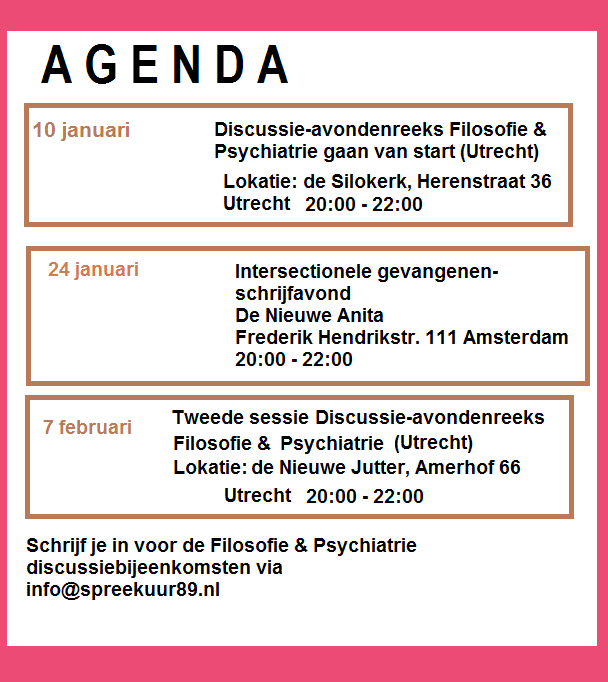
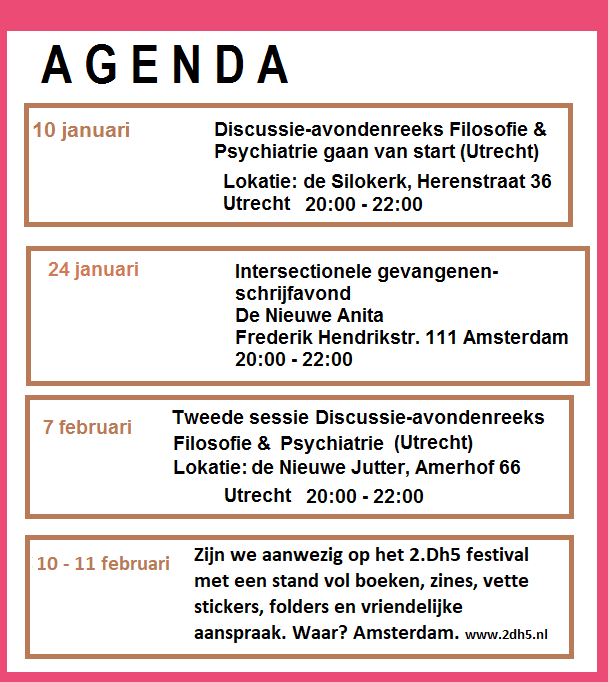
25 dec

Changed region(s): [[0.0, 0.7698, 1.0, 0.9853]]

diff --git a/blog.html b/blog.html
@@ -64,12 +64,44 @@
 <section class= "middelen1">
 
 <h2>Blog</h2>
-<p>Hier komen elke tweede en vierde maandag van de maand nieuwe artkelen op! Check bijvoorbeeld de <a href=#11dec>laatste bijdrage</a>, of de <a href=#13nov>eennalaatste bijdrage</a>, of onze <a href=#12okt>eerste Tegenlezing</a>, onze <a href=#9okt>'Oproep: mail naar de Monitor'</a> of het <a href=#25sept2>eerste artikel</a>. Ook is er de naar De Monitor verzonden <a href=#23okt>mail</a> van een anonieme schrijver/ schrijfster. Het volgende stuk verschijnt op 25 december: een mals, kritisch stuk voor bij het burgerlijke kerstontbijt. Af en toe verschijnt er ook spontaan iets, bijvoorbeeld n.a.v. een actualiteit waar we niet stil over konden blijven. Thema's en vraagstukken suggereren kan altijd, evenals een stuk inzenden (info@spreekuur89.nl/ spreekuur89@riseup.net) ! Geen artikel missen? Schrijf je in op onze nieuwsbrief door een mailtje te sturen naar info@spreekuur89.nl/ spreekuur89@riseup.net.</p>
+<p>Hier komen elke vierde maandag van de maand nieuwe artkelen op! Check bijvoorbeeld de <a href=#25dec>laatste bijdrage</a> of <a href=#11dec>eennalaatste bijdrage</a>, of de <a href=#13nov>eennalaatste bijdrage</a>, of onze <a href=#12okt>eerste Tegenlezing</a>, onze <a href=#9okt>'Oproep: mail naar de Monitor'</a> of het <a href=#25sept2>eerste artikel</a>. Ook is er de naar De Monitor verzonden <a href=#23okt>mail</a> van een anonieme schrijver/ schrijfster. Het volgende stuk verschijnt op 25 december: een mals, kritisch stuk voor bij het burgerlijke kerstontbijt. Af en toe verschijnt er ook spontaan iets, bijvoorbeeld n.a.v. een actualiteit waar we niet stil over konden blijven. Thema's en vraagstukken suggereren kan altijd, evenals een stuk inzenden (info@spreekuur89.nl/ spreekuur89@riseup.net) ! Geen artikel missen? Schrijf je in op onze nieuwsbrief door een mailtje te sturen naar info@spreekuur89.nl/ spreekuur89@riseup.net.</p>
 
 </section>
 
 
 
+
+
+
+<section class= "middelen4">
+
+<h2 id=25dec>Vechten voor meer vrijheid: Op naar 2018</h2>
+<p>
+<i>Gepost op 25 December, auteur: Allolalie.</a></i><br><br>
+
+
+<i><b>Heerlijk cliche, een terugblik op het voorgaande jaar zo bij je Kerstontbijt. Wel, vooruit dan. Sowieso was 2017 een bewogen jaar. Het begon al explosief met het bespreken van de <a href="https://www.mensenrechten.nl/publicaties/detail/37310">Observatiemaatregel</a> van het wetsvoorstel Wet Verplichte Ggz. Gelukkig werd dat proefballonnetje doorgeprikt. Ook heeft de politie weer het nodige <a href="https://www.noordhollandsdagblad.nl/waterland/door-politie-doodgeschoten-persoon-41-jarige-man-uit-purmerend">(soms fatale)</a> <a href="https://www.politie.nl/nieuws/2017/september/5/item-eenvandaag-inzet-stroomstootwapen-bij-psychiatrisch-patienten.html">geweld</a> gepleegd naar gepsychiatriseerden en andere <a href="https://www.jokekaviaar.nl/alles-onder-controle.html">onderdrukten</a>. Het was ook het jaar waarin Spreekuur 89 werd opgericht. We zijn mooi aan het groeien. Een groepje bevlogen activisten dat bouwt aan dit initiatief, en we hebben al enkele mensen kunnen helpen. We stonden op het <a href="http://doetankpeer.nl/happy-activism-festival-2/">Happy Activism Festival</a> en we zijn al vermeld op enkele websites, zoals die van <a href="https://www.tijdschriftdeviant.nl/395-nieuwe-initiatieven-voor-hulpvragers-in-de-ggz">Deviant Tijdschrift<a/> en in de InBeweging.<br><br></i>
+In oktober deden we een oproep om kritische mails te schrijven naar <a href="https://demonitor.ncrv.nl/verwarde-mensen">NRCV/ KRO Monitor</a>, nadat De Monitor opnieuw een stigmatiserende, eenzijdige uitzending had over de 'verwarde persoon'. Gelukkig zijn er uitzonderingen in de berichtgeving, zoals <a href="https://demonitor.kro-ncrv.nl/artikelen/ik-ben-zoals-de-media-dat-noemen-een-verward-persoon">dit verhaal</a>.<br><br>
+
+Een greep uit het artikel: <i>"Ik deel mijn verhaal in de hoop dat het misschien iets positiefs teweeg brengt. Verwarde mensen horen niet in een cel. Ze hebben hulp nodig. Als het echter toch zover komt dat een verwarde persoon moet worden opgevangen, laat het dan alsjeblieft humaan zijn. De cel verergert de verwardheid. Het maakt de angst, paniek en agressie alleen maar groter. En als er dan een arts langs komt om je te beoordelen, leidt dat vaak tot zwaardere maatregelen dan eigenlijk nodig is. Zoals een gedwongen opname, dat op zijn beurt ook weer littekens op de ziel kan geven. Het zo breed mogelijk doorvoeren van een goede opvang voor momenten dat het met ons mis dreigt te gaan kan hier een eind aan maken. Het kan mensen op hun meest kwetsbaarste moment een menswaardige behandeling bieden".</i><br><br>
+
+Deze mevrouw was het slachtoffer van repressie. Wij blijven vechten tegen deze soort repressie, die dicht verbonden is met andere vormen van repressie - zoals racisme, klassisme, heteronormativiteit, et cetera. Vanaf onze oprichting in september tot aan nu waren we druk bezig met opstarten, terwijl de eerste telefoontjes en mails al binnen kwamen - zelfs vanuit het buitenland! En uit deze maanden aan hard werk komt nu onder andere de <a href="filosofie2.html">discussie-avondenreeks Filosofie en Psychiatrie</a> voort, en de <a href="schrijfavonden">Gevangenenschrijfavond</a>. Ook staan we op het <a href="https://www.2dh5.nl/">2.Dh5 festival</a> met een stand vol boeken, zines, stickers en flyers.<br><br>
+Verder is er veel werk aan de winkel. Er is nog teveel repressie tegen gepsychiatriseerde mensen, en de autoritaire principes, dogma's en structuren die deze en andere repressie steunen, lijken eerder sterker te worden dan af te zwakken.<br><br>
+2018 Wordt het geluid waarin we een alternatieve visie nog harder horen en ook in praktijk brengen: zoals een niet-autoritaire benadering van situaties waarin iemand in je omgeving snel hulp nodig heeft bij psychische problemen - in plaats van <a href="https://www.ggze.nl/spoed">een vast actieplan</a>, we houden niet zo van vastgeroeste 'plannen'. En we willen toewerken naar een alternatief, lekker praktijkgericht (en financieel veel toegankelijker) symposium dat een alternatief vormt op het in <a href="https://www.ccitp.net/">oktober gehouden conventionele symposium over dwang in de ggz</a>.<br><br>
+Totdat iedereen vrij is! Gelukkig 2018!
+
+
+
+
+
+<section class= "middelen3">
+
+
+
+
+</p>
+
+</section>
 
 
 
@@ -314,15 +346,6 @@ Bruce E. Levine, is een praktiserende klinische psycholoog, schrijft en spreekt 
 
 
 
-
-
-
-<section class= "middelen5">
-<h2 id="13nov">13 November</h2>
-<p>Dit artikel wordt 13 november gepost.<br><br><br></p>
-
-
-</section>
 
 
 

diff --git a/overig.html b/overig.html
@@ -6,7 +6,7 @@
 <head>
 <meta charset="utf-8"  />
 <meta name="viewport" content= "width=evice-width, initial-scale=1">
-<title>Spreekuur 89 homepage</title>
+<title>Spreekuur 89 overige activiteiten</title>
 <link rel= "stylesheet" type= "text/css" href="style.css" />
 <link href= "css/font-awesome.min.css" rel = "stylesheet" />
 <link rel= "shortcut icon" type= "image/png" href="img/fsavicon.png" />
@@ -62,7 +62,7 @@
 
 <article id= "mobile">
 
-<h2>Momenteel geen overige agendapunten</h2>
+<h2>Op 10 en 11 februari staan we met een stand op het 2.Dh5 festival in Amsterdam! Zie <a href="https://www.2dh5.nl/event/hoe-pakken-we-de-stad-terug/">hier voor meer info</a>!</h2>
 <p></p>
 
 
